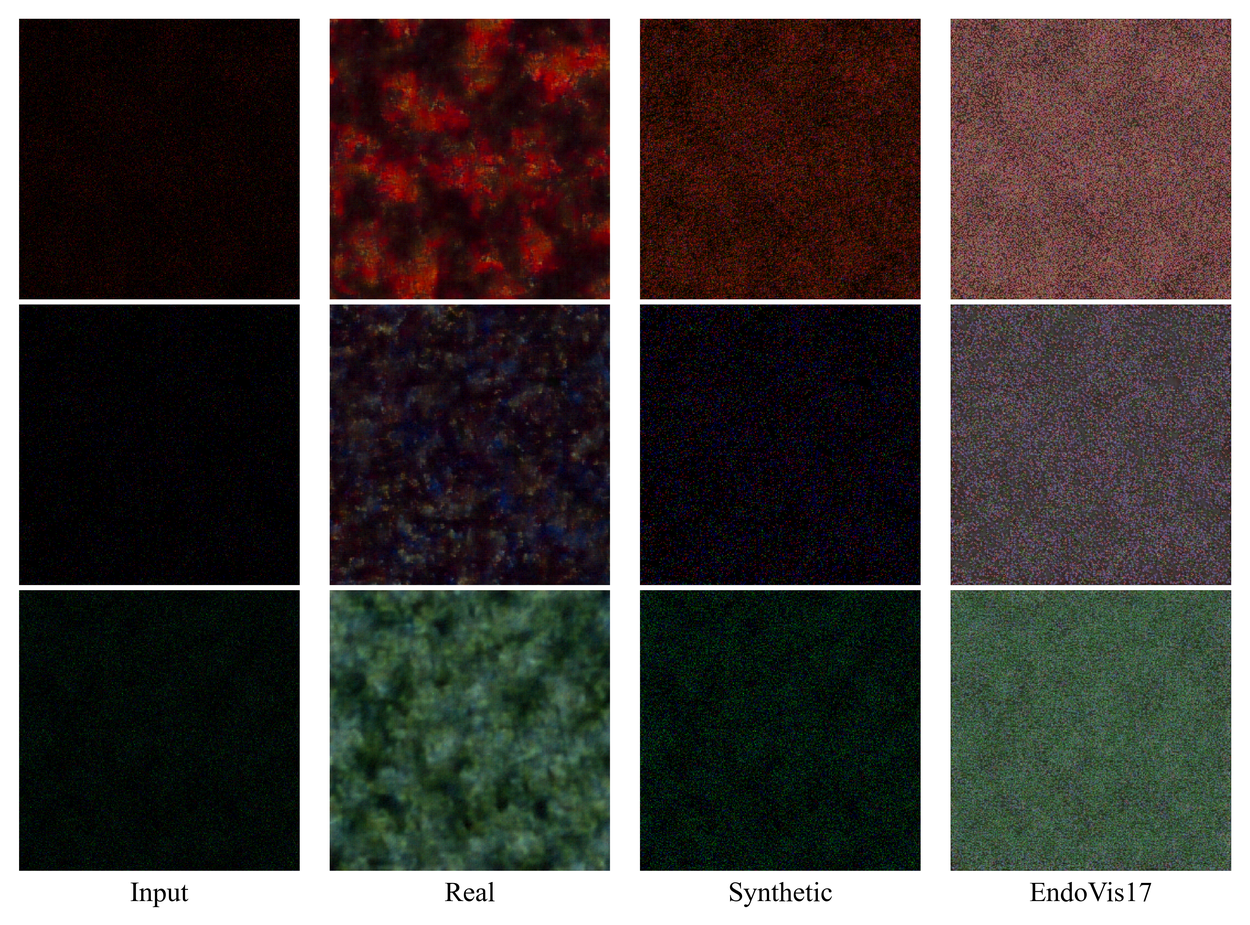
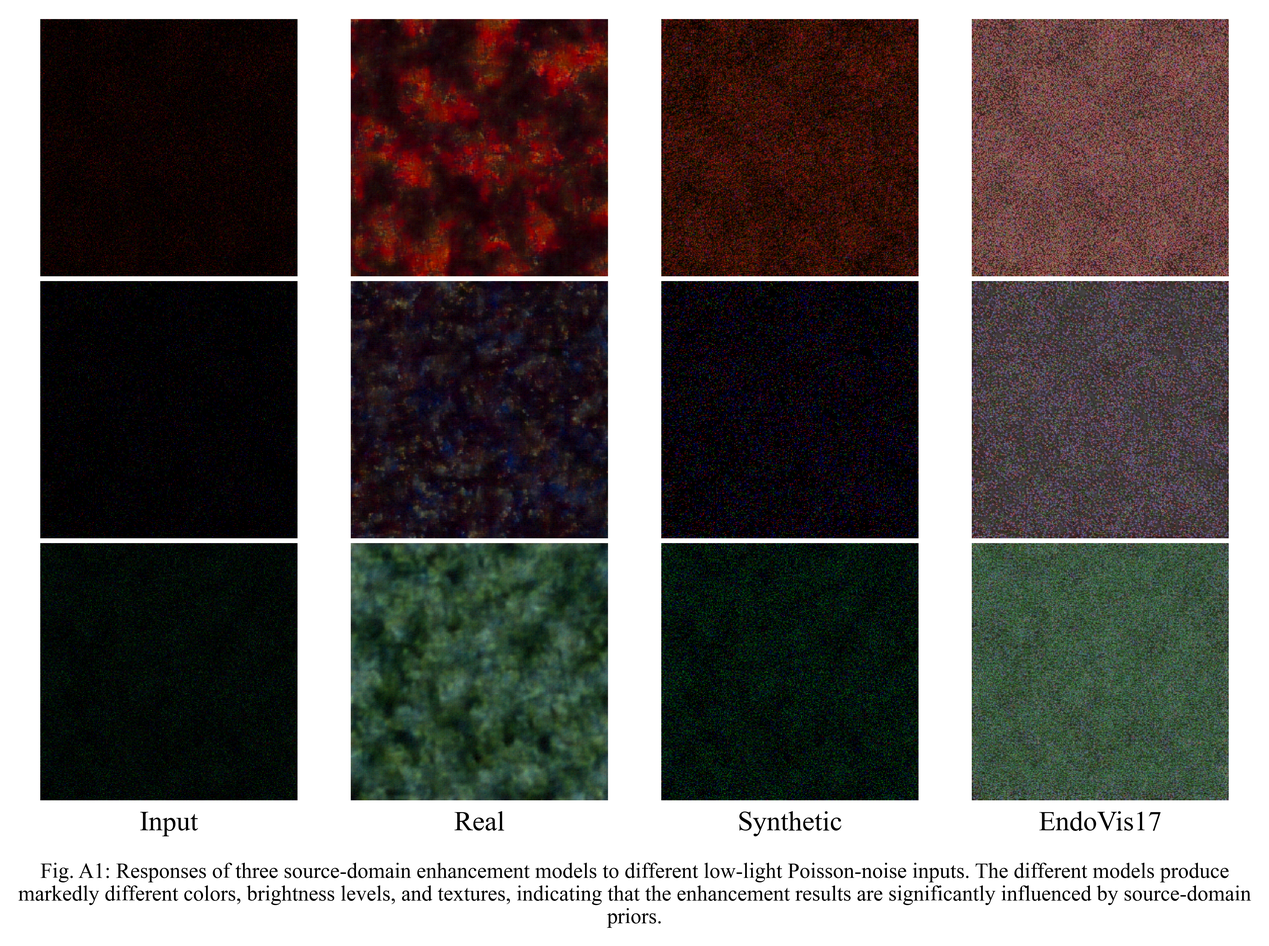
more exp

diff --git a/README.md b/README.md
@@ -6,7 +6,7 @@
 
 <img title="" src=".\structured_noise_responses.png" alt="" width="626" data-align="center">
 
-Fig. A1: Responses of three source-domain enhancement models to different low-light Poisson-noise inputs. The different models produce markedly different colors, brightness levels, and textures, indicating that the enhancement results are significantly influenced by source-domain priors.
+
 
 ## **Additional Comparison Methods**
 
